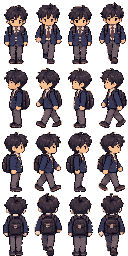
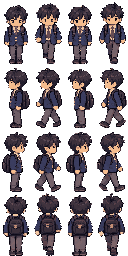
캐릭터 테두리 잡티 제거 (흰 배경 번짐)
Claude-Session: https://claude.ai/code/session_01PcX6iaxmTfRQvkNdGv67ZG

diff --git a/tools/pixelize.py b/tools/pixelize.py
@@ -91,14 +91,15 @@ def down_mode(img: Image.Image, tw: int, th: int, colors: int = 32) -> Image.Ima
 
 
 def strip_halo(img: Image.Image) -> Image.Image:
-    """배경과 맞닿은 하얀 테두리 잡티 지우기"""
+    """배경과 맞닿은 밝은 테두리 잡티 지우기.
+    AI 도트 캐릭터는 바깥선이 어둡다 — 투명한 곳과 맞닿았는데 밝은 점은 흰 배경이 번진 것"""
     px = img.load()
     w, h = img.size
     kill = []
     for y in range(h):
         for x in range(w):
             r, g, b, a = px[x, y]
-            if a == 0 or min(r, g, b) < 175 or max(r, g, b) - min(r, g, b) > 40:
+            if a == 0 or (0.299 * r + 0.587 * g + 0.114 * b) < 120:
                 continue
             if any(not (0 <= x + dx < w and 0 <= y + dy < h) or px[x + dx, y + dy][3] == 0 for dx, dy in ((1, 0), (-1, 0), (0, 1), (0, -1))):
                 kill.append((x, y))
